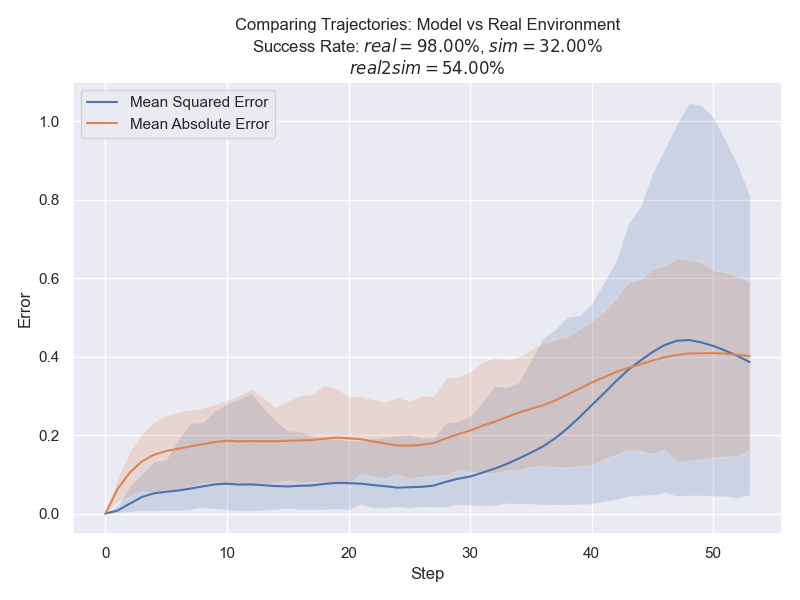
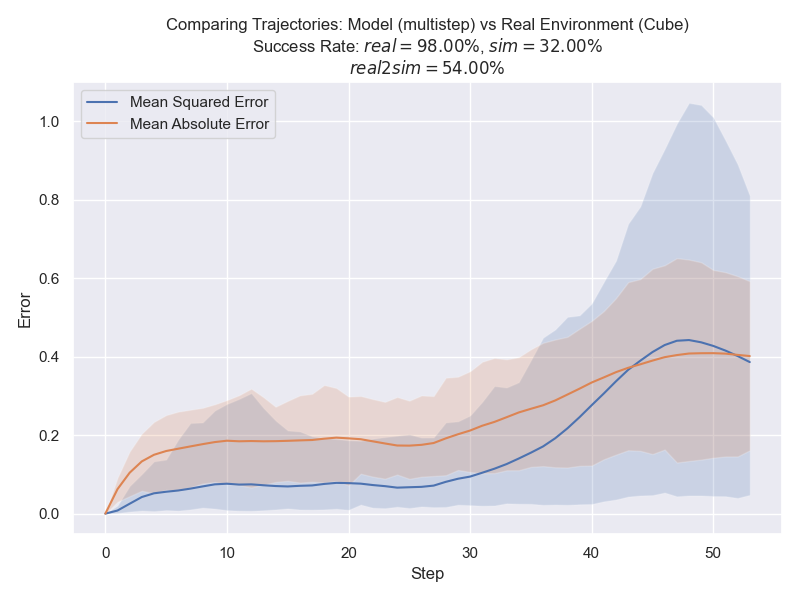
adding all required scripts

Changed region(s): [[0.2188, 0.03, 0.875, 0.06]]

diff --git a/evaluator/env_model_evaluator.py b/evaluator/env_model_evaluator.py
@@ -92,8 +92,7 @@ class EnvModelEvaluator:
         plt.legend()
 
         plt.title(
-            # TODO: add the task and model names to the title
-            "Comparing Trajectories: Model vs Real Environment\n"
+            f"Comparing Trajectories: Model ({self.simulated_task.model}) vs Real Environment ({get_task_title(self.simulated_task.env_name)})\n"
             f"Success Rate: $real={100 * self.real_info['success']:.2f}\\%$, $sim={100 * self.sim_info['success']:.2f}\\%$\n"
             f"$real2sim={100 * real2sim_info.get('success', 0):.2f}\\%$"
         )
